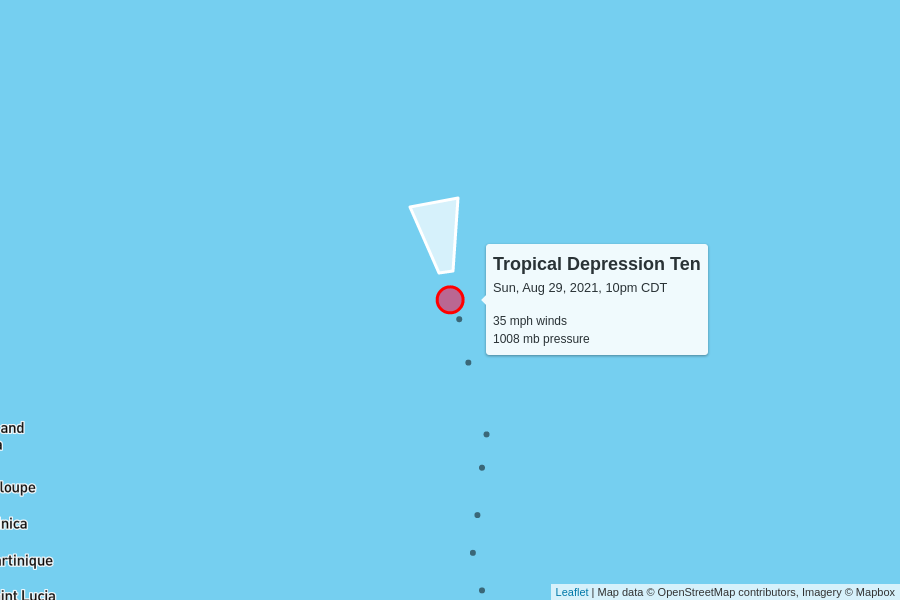
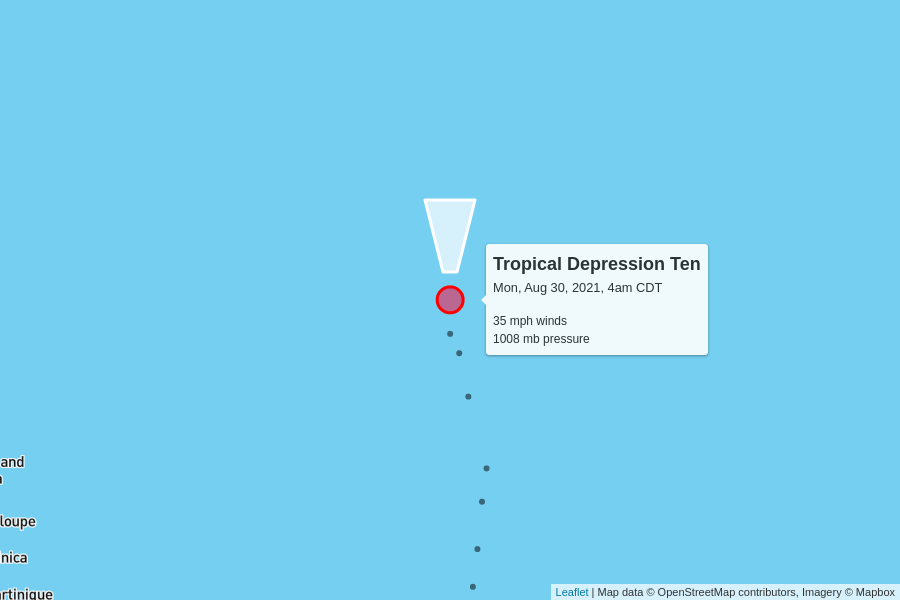
automatic update

Changed region(s): [[0.0, 0.69, 0.0622, 1.0], [0.56, 0.45, 0.7467, 0.51], [0.4356, 0.33, 0.5289, 0.45]]

diff --git a/docs/index.html b/docs/index.html
@@ -97,10 +97,10 @@
 
     <table>
       <tr>
-        <td colspan="6" class="storm category-1">
+        <td colspan="6" class="storm category-0">
           <h2>
-            Hurricane Ida - Category 1
-            <p class="updated">last updated <span data-time>2021-08-30T06:00:00.000Z</span></p>
+            Tropical Storm Ida
+            <p class="updated">last updated <span data-time>2021-08-30T09:00:00.000Z</span></p>
           </h2>
         </td>
       </tr>
@@ -115,10 +115,10 @@
       </tr>
       <tr>
         <td class="spacer"></td>
-        <td>75 mph</td>
-        <td>972 mb</td>
+        <td>60 mph</td>
+        <td>990 mb</td>
         <td>
-          9 mph to the north
+          8 mph to the north
           <br/>
           <span style="display: inline-block; font-size: 1.5em; rotate: 355deg;">↑</span>
         </td>
@@ -144,7 +144,7 @@
         <td colspan="6" class="storm category-0">
           <h2>
             Tropical Depression Ten
-            <p class="updated">last updated <span data-time>2021-08-30T03:00:00.000Z</span></p>
+            <p class="updated">last updated <span data-time>2021-08-30T09:00:00.000Z</span></p>
           </h2>
         </td>
       </tr>
@@ -164,7 +164,7 @@
         <td>
           8 mph to the north
           <br/>
-          <span style="display: inline-block; font-size: 1.5em; rotate: 350deg;">↑</span>
+          <span style="display: inline-block; font-size: 1.5em; rotate: 360deg;">↑</span>
         </td>
         <td><a href="https://raw.githubusercontent.com/mgwalker/atlantic-hurricanes/main/data/csv/AL102021.csv">AL102021.csv</a></td>
         <td><a href="https://www.nhc.noaa.gov/archive/2021/TEN.shtml?">NHC advisories</a></td>
